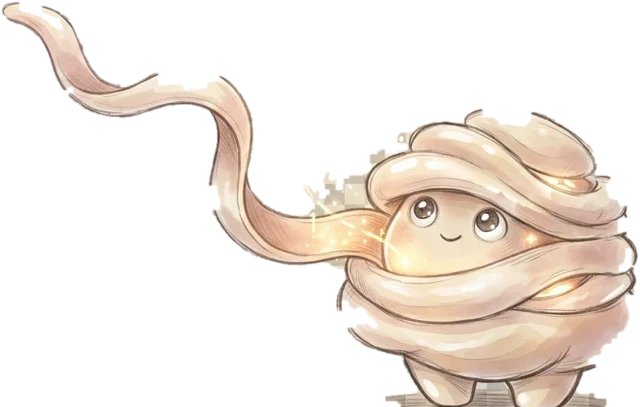
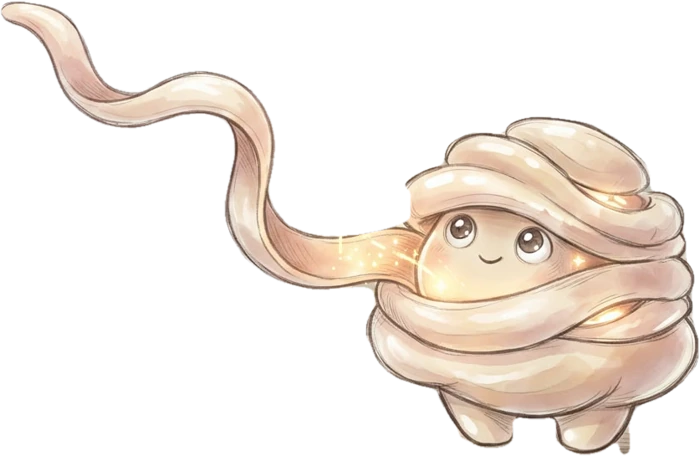
Co-op page: clean Thanaya cutout pointing at the portfolio button

Changed region(s): [[0.0938, 0.1474, 1.0, 1.0], [0.0, 0.0, 0.125, 0.2064], [0.125, 0.1179, 0.1562, 0.1769]]

diff --git a/coop/index.html b/coop/index.html
@@ -20,11 +20,15 @@ html{background:var(--bg)}
 body{margin:0;min-height:100vh;background:var(--bg);color:var(--ink);font:400 17px/1.4 var(--sys);-webkit-font-smoothing:antialiased;
   padding:calc(env(safe-area-inset-top,0px) + 16px) max(16px,env(safe-area-inset-right,0px)) calc(env(safe-area-inset-bottom,0px) + 24px) max(16px,env(safe-area-inset-left,0px))}
 main{max-width:420px;margin:0 auto}
-.top{position:relative;height:146px}
+.top{position:relative;height:160px}
 .pf{position:absolute;top:0;left:0;z-index:2;margin:0}
 .pf a{display:inline-flex;align-items:center;gap:6px;min-height:36px;padding:0 14px;border-radius:999px;background:var(--ink);color:#fff;font:600 15px var(--sys);text-decoration:none}
-.point{position:absolute;top:2px;right:-6px;width:250px;z-index:0;pointer-events:none}
+.point{position:absolute;top:12px;left:108px;width:246px;z-index:0;pointer-events:none}
 .stage{position:relative;z-index:1;margin-top:-8px}
+.sp{position:absolute;width:6px;height:6px;border-radius:50%;background:#ffe7a8;box-shadow:0 0 6px 2px rgba(255,205,110,.85);animation:tw 2.4s ease-in-out infinite}
+.sp.s1{left:2px;top:-6px}.sp.s2{left:30px;top:10px;width:4px;height:4px;animation-delay:.6s}.sp.s3{left:118px;top:70px;animation-delay:1.1s}.sp.s4{left:96px;top:96px;width:4px;height:4px;animation-delay:1.7s}.sp.s5{left:228px;top:42px;width:5px;height:5px;animation-delay:.9s}
+@keyframes tw{0%,100%{opacity:.25;transform:scale(.6)}50%{opacity:1;transform:scale(1.15)}}
+@media (prefers-reduced-motion:reduce){.sp{animation:none;opacity:.8}}
 .point img{display:block;width:100%;height:auto}
 .card{position:relative;z-index:1;background:var(--card);border-radius:22px;padding:22px 18px 16px;box-shadow:0 1px 0 rgba(0,0,0,.04),0 18px 40px -22px rgba(40,30,10,.45)}
 .eyebrow{margin:0;font:600 13px var(--sys);letter-spacing:.06em;text-transform:uppercase;color:var(--gold)}
@@ -46,14 +50,14 @@ h1{margin:2px 0 4px;font:400 40px/1.05 'Instrument Serif',serif;letter-spacing:-
 .foot a{color:var(--tint);text-decoration:none}
 a:focus-visible{outline:2px solid var(--tint);outline-offset:2px}
 @media (hover:hover){.list a:hover{background:rgba(0,0,0,.03)}.wa:hover{filter:brightness(1.05)}}
-@media (max-width:360px){h1{font-size:34px}.point{width:220px}.top{height:132px}}
+@media (max-width:360px){h1{font-size:34px}.point{width:210px}.top{height:142px}}
 </style>
 </head>
 <body>
 <main>
   <div class="top">
     <div class="pf"><a href="https://hailahalhejjei.github.io/">Portfolio ↗</a></div>
-    <div class="point" aria-hidden="true"><img src="thanaya-point.webp" alt="" width="640" height="407"></div>
+    <div class="point" aria-hidden="true"><img src="thanaya-point.webp" alt="" width="700" height="456"><i class="sp s1"></i><i class="sp s2"></i><i class="sp s3"></i><i class="sp s4"></i><i class="sp s5"></i></div>
   </div>
   <div class="stage">
     <section class="card">
